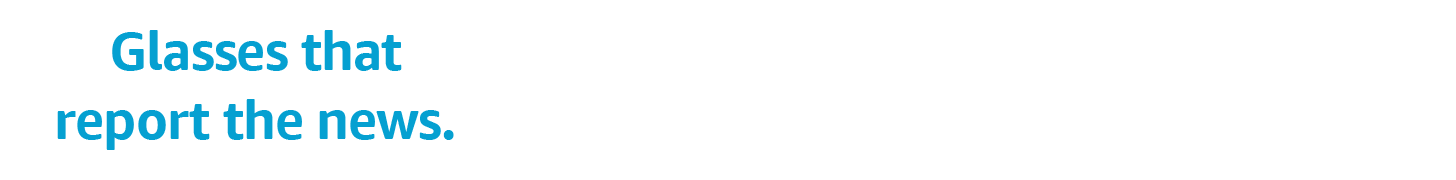
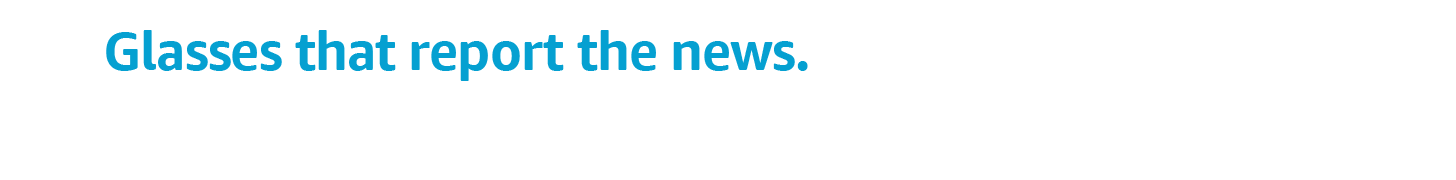
728x90 copy adjustments

Changed region(s): [[0.0618, 0.1667, 0.5563, 0.4444], [0.0309, 0.5556, 0.3091, 0.8333]]

diff --git a/staging/frames/ECHOF_TPR_Anim_300x250/index.html b/staging/frames/ECHOF_TPR_Anim_300x250/index.html
@@ -161,7 +161,7 @@
         main
           .add(fadeIn())
           .add(frame())
-          .add(shadowMove(), 0.8)
+          // .add(shadowMove(), 0.8)
           .add(copy1(), 0.8)
           .add(copy2(), 3.25)
           .add(endframe(), 5.5)
